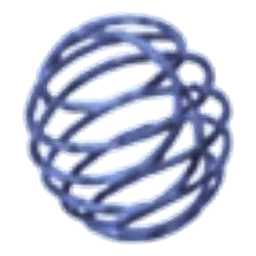
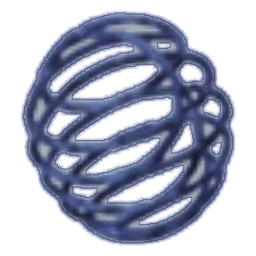
Toy Box: light paperboard boxes, and a spring you can see
The dark wicker baskets are now open paperboard boxes seen from above:
light board floor, side walls with folds at the back corners, square
corners. The spring's thin, pale wire is deepened and given a darker
outline so it reads against the boxes and the track.

Claude-Session: https://claude.ai/code/session_015HBrk1hDBUJVX3mt4rmLr3

diff --git a/toybox/index.html b/toybox/index.html
@@ -8,7 +8,7 @@
 // A home-screen app can keep showing an old saved copy of this page. Check for a newer
 // version when the page opens, and reload once to get it. Bump BUILD and version.txt together.
 (function () {
-  var BUILD = "2026-10-05.2"; window.SITE_BUILD = BUILD;
+  var BUILD = "2026-10-05.3"; window.SITE_BUILD = BUILD;
   fetch("../version.txt?t=" + Date.now(), {cache: "no-store"}).then(function (r) { return r.ok ? r.text() : ""; }).then(function (v) {
     v = v.trim(); var tried = null;
     try { tried = sessionStorage.getItem("catdoku.reloadedFor"); } catch (e) {}
@@ -22,7 +22,7 @@
 <link rel="preconnect" href="https://fonts.googleapis.com">
 <link rel="preconnect" href="https://fonts.gstatic.com" crossorigin>
 <link href="https://fonts.googleapis.com/css2?family=Baloo+2:wght@500;600;800&display=swap" rel="stylesheet">
-<link rel="stylesheet" href="../games.css?v=2026-10-05.2">
+<link rel="stylesheet" href="../games.css?v=2026-10-05.3">
 <style>
 /* A living room floor: a winding ball track on the rug, with wicker baskets of toys around it. */
 .wrap.room{height:auto;aspect-ratio:2/3;max-width:calc((100svh - 40px) * 2 / 3)}
@@ -81,7 +81,7 @@
   </div>
 </main>
 
-<script src="../games.js?v=2026-10-05.2"></script>
+<script src="../games.js?v=2026-10-05.3"></script>
 <script>
 const $ = G.$;
 G.nav("toybox");
@@ -735,20 +735,27 @@ function buildBg() {
   // baskets, each with a little chute onto the track
   for (const b of live()) drawBasket(g, b);
 }
+// An open paperboard box seen from above: side walls with folds at the back corners, a light board
+// floor, and a short chute onto the track at the open end.
 function drawBasket(g, b) {
-    const e = basketEnd(b);
+    const e = basketEnd(b), w = 6;   // w: wall thickness as seen from above
     g.save(); g.translate(b.mx, b.my); g.rotate(Math.atan2(b.dy, b.dx));
     g.fillStyle = "#DED8CC"; g.fillRect(14, -33, 18, 66);
     g.fillStyle = "#C9C1B3"; g.fillRect(14, -33, 18, 3); g.fillRect(14, 30, 18, 3);
-    g.fillStyle = "rgba(0,0,0,.18)"; g.beginPath(); g.roundRect(27, -36, e - 24, 78, 10); g.fill();
-    g.fillStyle = "#C68C52"; g.beginPath(); g.roundRect(26, -38, e - 26, 76, 10); g.fill();
-    g.strokeStyle = "rgba(90,50,15,.45)"; g.lineWidth = 1.2;
-    for (let x = 30; x < e - 2; x += 6) { g.beginPath(); g.moveTo(x, -37); g.lineTo(x + 3, -33); g.moveTo(x, 37); g.lineTo(x + 3, 33); g.stroke(); }
-    for (let y = -30; y < 32; y += 6) { g.beginPath(); g.moveTo(e - 5, y); g.lineTo(e - 1, y + 3); g.stroke(); }
-    g.fillStyle = "#9C6837"; g.beginPath(); g.roundRect(26, -32, e - 32, 64, [0, 6, 6, 0]); g.fill();
-    g.strokeStyle = "rgba(255,230,190,.15)"; g.lineWidth = 1;
-    for (let k = 1; k < b.rows; k++) { g.beginPath(); g.moveTo(32 + CELL * k, -30); g.lineTo(32 + CELL * k, 30); g.stroke(); }
-    g.strokeStyle = "#7E5129"; g.lineWidth = 2.5; g.beginPath(); g.roundRect(26, -38, e - 26, 76, 10); g.stroke();
+    g.fillStyle = "rgba(40,30,20,.18)"; g.beginPath(); g.roundRect(28, -35, e - 25, 76, 3); g.fill();
+    // floor
+    g.fillStyle = "#DCD4C5"; g.fillRect(26, -38, e - 26, 76);
+    g.strokeStyle = "rgba(70,55,35,.12)"; g.lineWidth = 1;
+    for (let k = 1; k < b.rows; k++) { g.beginPath(); g.moveTo(32 + CELL * k, -32); g.lineTo(32 + CELL * k, 32); g.stroke(); }
+    // walls: the long sides and the back, joined by folds at the back corners
+    const wall = (pts, col) => { g.fillStyle = col; g.beginPath(); pts.forEach(([x, y], i) => i ? g.lineTo(x, y) : g.moveTo(x, y)); g.closePath(); g.fill(); };
+    wall([[26, -38], [e, -38], [e - w, -38 + w], [26, -38 + w]], "#EFEAE0");
+    wall([[26, 38], [e, 38], [e - w, 38 - w], [26, 38 - w]], "#D2C9B8");
+    wall([[e, -38], [e, 38], [e - w, 38 - w], [e - w, -38 + w]], "#E3DCCF");
+    g.strokeStyle = "rgba(70,55,35,.28)"; g.lineWidth = 1;
+    g.beginPath(); g.moveTo(e, -38); g.lineTo(e - w, -38 + w); g.moveTo(e, 38); g.lineTo(e - w, 38 - w);
+    g.moveTo(26, -38 + w); g.lineTo(e - w, -38 + w); g.lineTo(e - w, 38 - w); g.lineTo(26, 38 - w); g.stroke();
+    g.strokeStyle = "#A99E8B"; g.lineWidth = 1.5; g.strokeRect(26, -38, e - 26, 76);
     g.restore();
 }
 // Ribs over the track, skipping basket mouths, so toys look like they roll inside it.
@@ -775,7 +782,7 @@ function draw() {
     if (b.done) {
       ctx.save(); ctx.translate(b.mx, b.my); ctx.rotate(Math.atan2(b.dy, b.dx));
       ctx.strokeStyle = `rgba(255,220,90,${0.6 + 0.4 * Math.sin(now * 12)})`; ctx.lineWidth = 4;
-      ctx.beginPath(); ctx.roundRect(24, -40, basketEnd(b) - 22, 80, 12); ctx.stroke(); ctx.restore();
+      ctx.beginPath(); ctx.roundRect(23, -41, basketEnd(b) - 20, 82, 5); ctx.stroke(); ctx.restore();
     }
   }
   S.slots.forEach(t => t && toys.push([t, 0, 0]));

diff --git a/patches/index.html b/patches/index.html
@@ -8,7 +8,7 @@
 // A home-screen app can keep showing an old saved copy of this page. Check for a newer
 // version when the page opens, and reload once to get it. Bump BUILD and version.txt together.
 (function () {
-  var BUILD = "2026-10-05.2";
+  var BUILD = "2026-10-05.3";
   fetch("../version.txt?t=" + Date.now(), {cache: "no-store"}).then(function (r) { return r.ok ? r.text() : ""; }).then(function (v) {
     v = v.trim(); var tried = null;
     try { tried = sessionStorage.getItem("catdoku.reloadedFor"); } catch (e) {}
@@ -23,7 +23,7 @@
 <link rel="preconnect" href="https://fonts.googleapis.com">
 <link rel="preconnect" href="https://fonts.gstatic.com" crossorigin>
 <link href="https://fonts.googleapis.com/css2?family=Baloo+2:wght@500;600;800&display=swap" rel="stylesheet">
-<link rel="stylesheet" href="../games.css?v=2026-10-05.2">
+<link rel="stylesheet" href="../games.css?v=2026-10-05.3">
 <style>
 /* The board is a quilt: a stitched binding round the edge, dashed seams between patches. */
 .board{background:#F3EEDF;border:8px solid #7A4A6E;border-radius:12px;outline:2px dashed rgba(255,244,230,.85);outline-offset:-5px}
@@ -113,7 +113,7 @@ main{--nw:min(calc(var(--board) * .4), 210px);--sw:min(calc(var(--board) * .5), 
   </div>
 </main>
 
-<script src="../games.js?v=2026-10-05.2"></script>
+<script src="../games.js?v=2026-10-05.3"></script>
 <script>
 function shuffle(a){for(let i=a.length-1;i>0;i--){const j=Math.floor(Math.random()*(i+1));[a[i],a[j]]=[a[j],a[i]];}return a;}
 function nbrs(i,N){const r=Math.floor(i/N),c=i%N,o=[];if(r>0)o.push(i-N);if(r<N-1)o.push(i+N);if(c>0)o.push(i-1);if(c<N-1)o.push(i+1);return o;}

diff --git a/yarn/index.html b/yarn/index.html
@@ -8,7 +8,7 @@
 // A home-screen app can keep showing an old saved copy of this page. Check for a newer
 // version when the page opens, and reload once to get it. Bump BUILD and version.txt together.
 (function () {
-  var BUILD = "2026-10-05.2";
+  var BUILD = "2026-10-05.3";
   fetch("../version.txt?t=" + Date.now(), {cache: "no-store"}).then(function (r) { return r.ok ? r.text() : ""; }).then(function (v) {
     v = v.trim(); var tried = null;
     try { tried = sessionStorage.getItem("catdoku.reloadedFor"); } catch (e) {}
@@ -23,7 +23,7 @@
 <link rel="preconnect" href="https://fonts.googleapis.com">
 <link rel="preconnect" href="https://fonts.gstatic.com" crossorigin>
 <link href="https://fonts.googleapis.com/css2?family=Baloo+2:wght@500;600;800&display=swap" rel="stylesheet">
-<link rel="stylesheet" href="../games.css?v=2026-10-05.2">
+<link rel="stylesheet" href="../games.css?v=2026-10-05.3">
 <style>
 .board{background:var(--panel)}
 .cell{border-top:1px solid var(--line);border-left:1px solid var(--line);cursor:pointer}
@@ -124,7 +124,7 @@ main{--kw:min(calc(var(--board) * .34), 170px);--tw:min(calc(var(--board) * .52)
   </div>
 </main>
 
-<script src="../games.js?v=2026-10-05.2"></script>
+<script src="../games.js?v=2026-10-05.3"></script>
 <script>
 function shuffle(a){for(let i=a.length-1;i>0;i--){const j=Math.floor(Math.random()*(i+1));[a[i],a[j]]=[a[j],a[i]];}return a;}
 function nbrs(i,N){const r=Math.floor(i/N),c=i%N,o=[];if(r>0)o.push(i-N);if(r<N-1)o.push(i+N);if(c>0)o.push(i-1);if(c<N-1)o.push(i+1);return o;}

diff --git a/sunbeams/index.html b/sunbeams/index.html
@@ -8,7 +8,7 @@
 // A home-screen app can keep showing an old saved copy of this page. Check for a newer
 // version when the page opens, and reload once to get it. Bump BUILD and version.txt together.
 (function () {
-  var BUILD = "2026-10-05.2";
+  var BUILD = "2026-10-05.3";
   fetch("../version.txt?t=" + Date.now(), {cache: "no-store"}).then(function (r) { return r.ok ? r.text() : ""; }).then(function (v) {
     v = v.trim(); var tried = null;
     try { tried = sessionStorage.getItem("catdoku.reloadedFor"); } catch (e) {}
@@ -23,7 +23,7 @@
 <link rel="preconnect" href="https://fonts.googleapis.com">
 <link rel="preconnect" href="https://fonts.gstatic.com" crossorigin>
 <link href="https://fonts.googleapis.com/css2?family=Baloo+2:wght@500;600;800&display=swap" rel="stylesheet">
-<link rel="stylesheet" href="../games.css?v=2026-10-05.2">
+<link rel="stylesheet" href="../games.css?v=2026-10-05.3">
 <style>
 /* A wooden floor in the shade; sunbeams are patches of window light, each with a cat stretched out in it. */
 .board{border-color:#5C3A22;border-radius:12px;position:relative;z-index:2}
@@ -74,7 +74,7 @@
   </div>
 </main>
 
-<script src="../games.js?v=2026-10-05.2"></script>
+<script src="../games.js?v=2026-10-05.3"></script>
 <script>
 function shuffle(a){for(let i=a.length-1;i>0;i--){const j=Math.floor(Math.random()*(i+1));[a[i],a[j]]=[a[j],a[i]];}return a;}
 // Split the grid into random rectangles, scanning for the first uncovered cell each time.

diff --git a/index.html b/index.html
@@ -8,7 +8,7 @@
 // A home-screen app can keep showing an old saved copy of this page. Check for a newer
 // version when the page opens, and reload once to get it. Bump BUILD and version.txt together.
 (function () {
-  var BUILD = "2026-10-05.2";
+  var BUILD = "2026-10-05.3";
   fetch("version.txt?t=" + Date.now(), {cache: "no-store"}).then(function (r) { return r.ok ? r.text() : ""; }).then(function (v) {
     v = v.trim(); var tried = null;
     try { tried = sessionStorage.getItem("catdoku.reloadedFor"); } catch (e) {}
@@ -158,7 +158,7 @@ button[aria-pressed="true"]{background:var(--ink);color:var(--paper)}
   </div>
 </main>
 
-<script src="games.js?v=2026-10-05.2"></script>
+<script src="games.js?v=2026-10-05.3"></script>
 <script>
 const PALETTE = ["#BD5538","#73A7AE","#ECA818","#6AA673","#B94588","#B3B94B",
                  "#7885BA","#E16A4A","#AD8EC2","#3C8681","#DFC49A","#DD9DAD",
